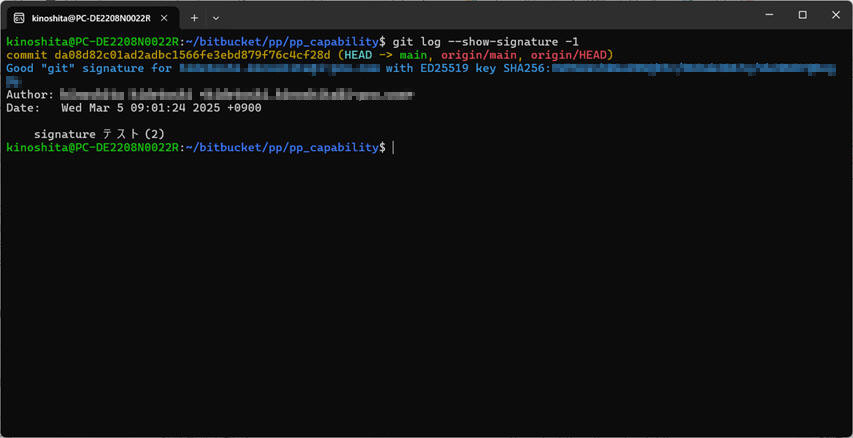
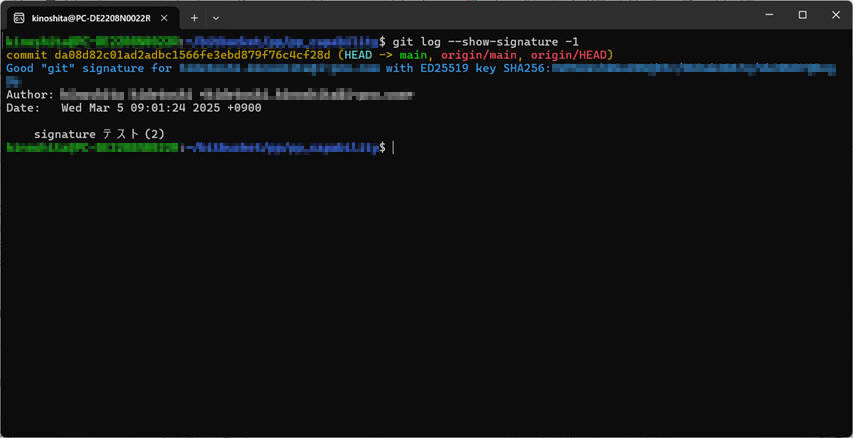
微修正

Changed region(s): [[0.0, 0.0594, 0.4572, 0.1187], [0.0, 0.3265, 0.4572, 0.3562]]

diff --git a/Etc/Bitbucket/signing_commits_with_ssh_key.html b/Etc/Bitbucket/signing_commits_with_ssh_key.html
@@ -187,7 +187,7 @@ eval $(ssh-agent)</pre>
       </li>
       <li>以上を設定後の私の .gitconfig ファイルを紹介します。<br>
       <pre class="prettyprint linenums lang-cpp" style="width: 800px">
-kinoshita@PC-DE2208N0022R:~$ cat .gitconfig
+kinoshita@PC-FooBoo:~$ cat .gitconfig
 [user]
         name = kinoshita hidetoshi
         email = ********@********.com
@@ -214,7 +214,7 @@ kinoshita@PC-DE2208N0022R:~$ cat .gitconfig
     <p>&nbsp;</p>
     <p>後者のコマンドを実行後の私の .gitconfig ファイル例です。（メールアドレスは **** で変更表記しています）</p>
     <pre class="prettyprint linenums lang-cpp" style="width: 800px">
-kinoshita@PC-DE2208N0022R:~$ cat .gitconfig
+kinoshita@PC-FooBoo:~$ cat .gitconfig
 [user]
         name = kinoshita hidetoshi
         email = ********@********.com
